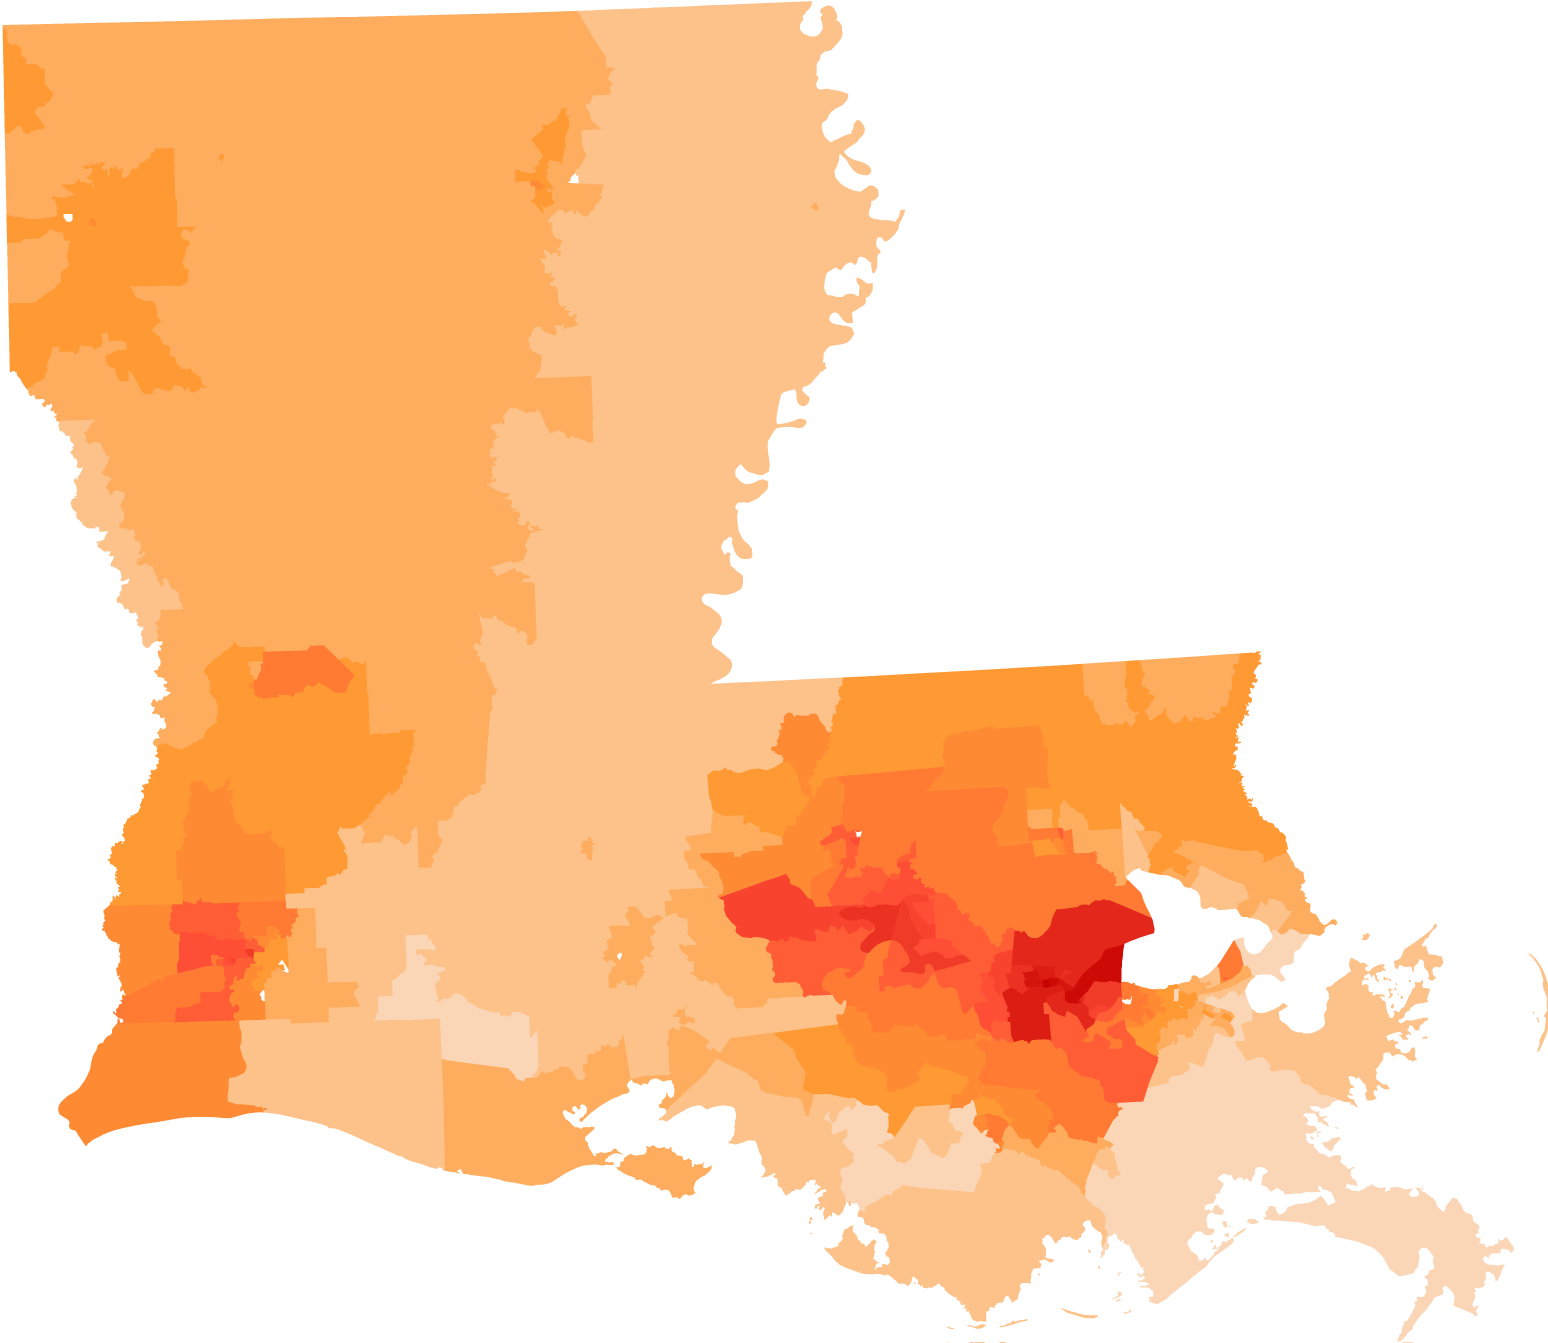
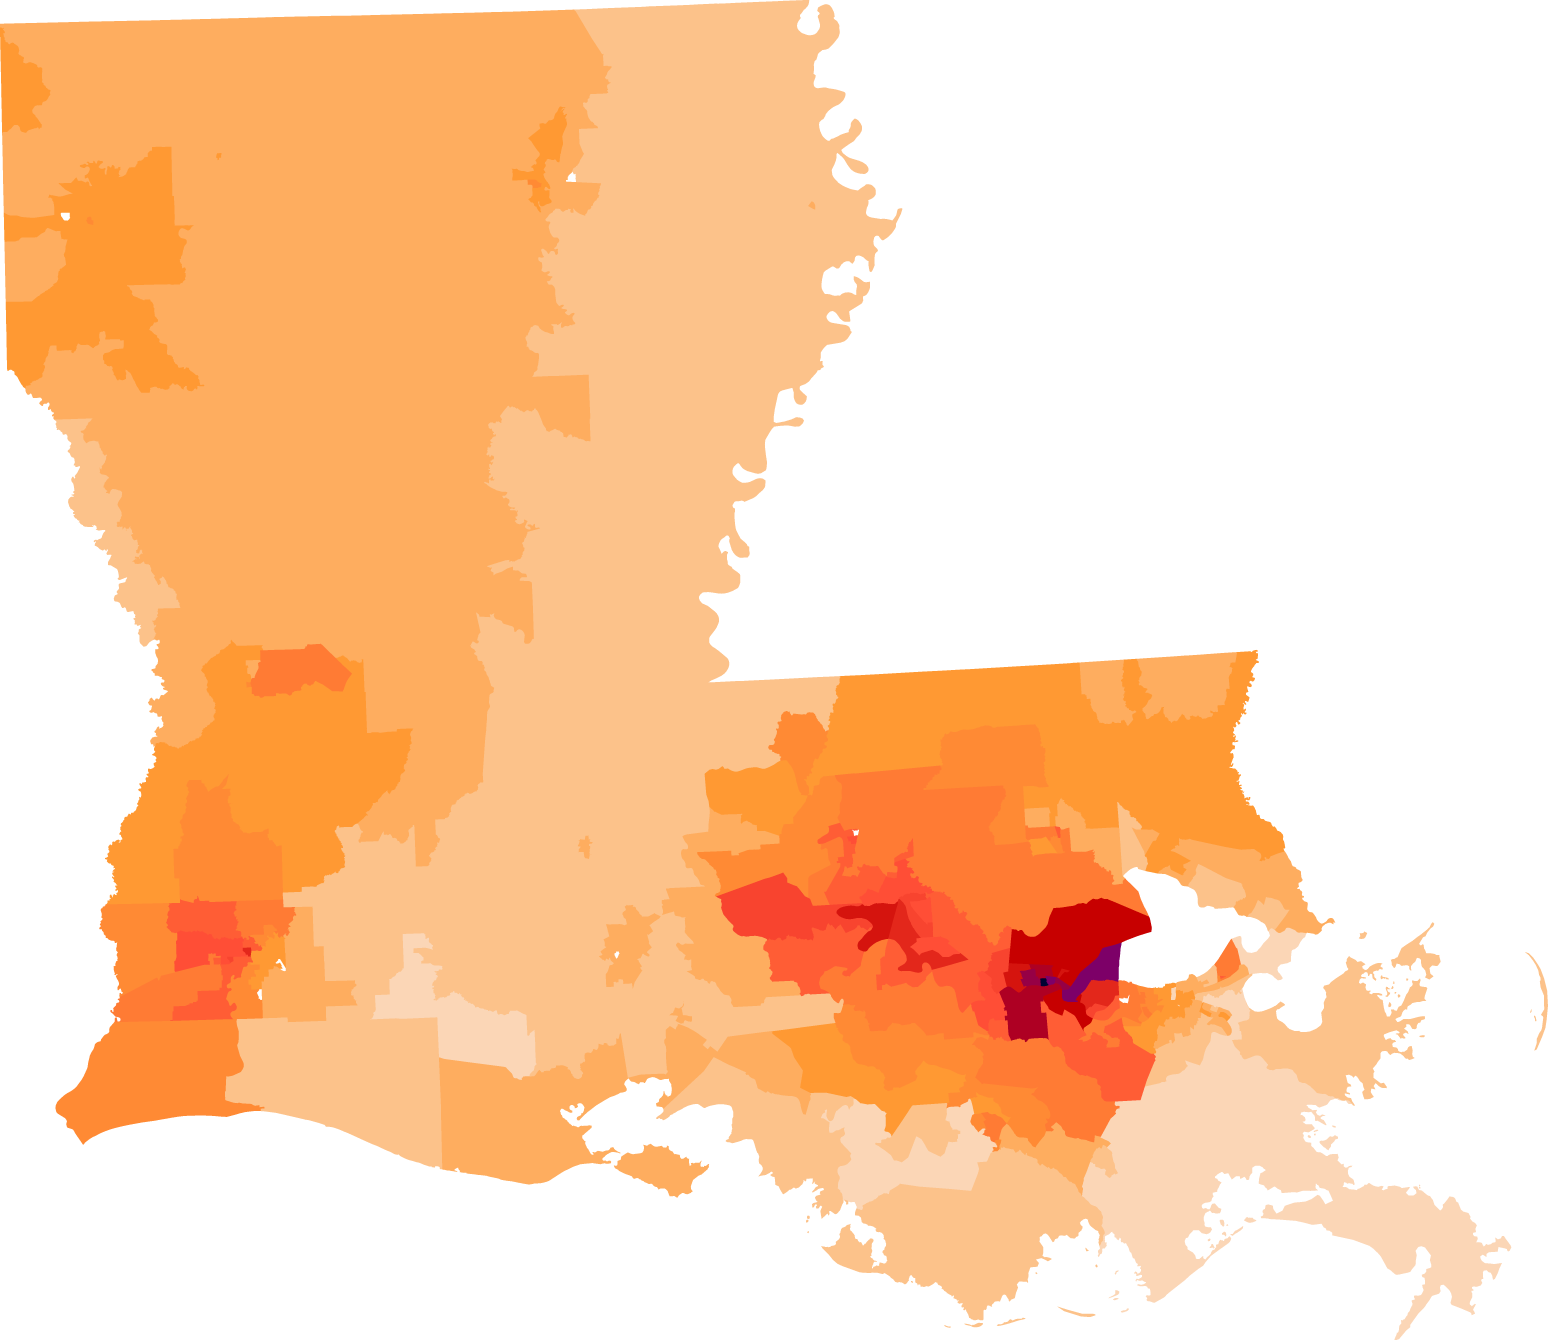
change ramp on louisiana map

diff --git a/src/templates/partials/slides.html b/src/templates/partials/slides.html
@@ -25,21 +25,21 @@
     <div class='uit-slide uit-slide--0'>
         <h2 class='uit-slide__title'>
             <span class='uit-slide__title__inner'>
-                The state of <span class='uit-slide__title-highlight'>Louisiana</span> has some of the worst air quality in America
+                <span class='uit-slide__title-highlight'>Louisiana</span> has the most toxic air in America
             </span>
         </h2>
     </div>
     <div class='uit-slide uit-slide--1'>
         <h2 class='uit-slide__title'>
             <span class='uit-slide__title__inner'>
-                Along the Mississippi River there is an area known <span class='uit-slide__title-highlight'>cancer alley</span> where the most carcinogenic has been detected
+                Along the Mississippi River is an area some call "cancer alley", where residents face the highest risks
             </span>
         </h2>
     </div>
     <div class='uit-slide uit-slide--2'>
         <h2 class='uit-slide__title'>
             <span class='uit-slide__title__inner'>
-                Where the residents of <span class='uit-slide__title-highlight'>Reserve</span> are 50 times more at risk of cancer(?)
+                Nestled in the middle is the community of <span class='uit-slide__title-highlight'>Reserve</span>, where the risk of cancer is the highest in the country. 50 times the national average
             </span>
         </h2>
     </div>

diff --git a/src/js/modules/map.js b/src/js/modules/map.js
@@ -28,8 +28,13 @@ let layers = [
 let states = [
     {
         text: 'Louisiana',
-        coords: [-92.081339, 31.177374],
+        coords: [-91.081339, 25.877374],
         layer: 0
+    },
+    {
+        text: 'Louisiana',
+        coords: [-92.881339, 32.077374],
+        layer: 1
     },
     {
         text: 'Mississippi',
@@ -148,7 +153,7 @@ export default {
             .data(states)
             .enter()
             .append('text')
-            .attr('class', function(d) { return 'uit-visual__map-state uit-visual__map-state--' + d.layer })
+            .attr('class', function(d) { return 'uit-visual__map-state uit-visual__map-state--' + d.text.toLowerCase() + ' uit-visual__map-state--' + d.layer })
             .attr('x', function(d) { return projection(d.coords)[0] })
             .attr('y', function(d) { return projection(d.coords)[1] })
             .text(function(d) { return d.text })

diff --git a/src/sass/partials/_visuals.scss b/src/sass/partials/_visuals.scss
@@ -72,14 +72,22 @@
 
 .uit-visual__map-state {
     font-family: 'Guardian Egyptian Web';
-    font-size: 24px;
+    font-size: 20px;
     font-weight: 700;
     text-anchor: middle;
     opacity: 0;
     transition: opacity 0.2s linear;
 
+    @include mq(tablet) {
+        font-size: 24px;
+    }
+
     &--1 {
         fill: $c-grey;
+    }
+
+    &--louisiana {
+        fill: $c-black;
     }
 
     .is--0 &--0,
